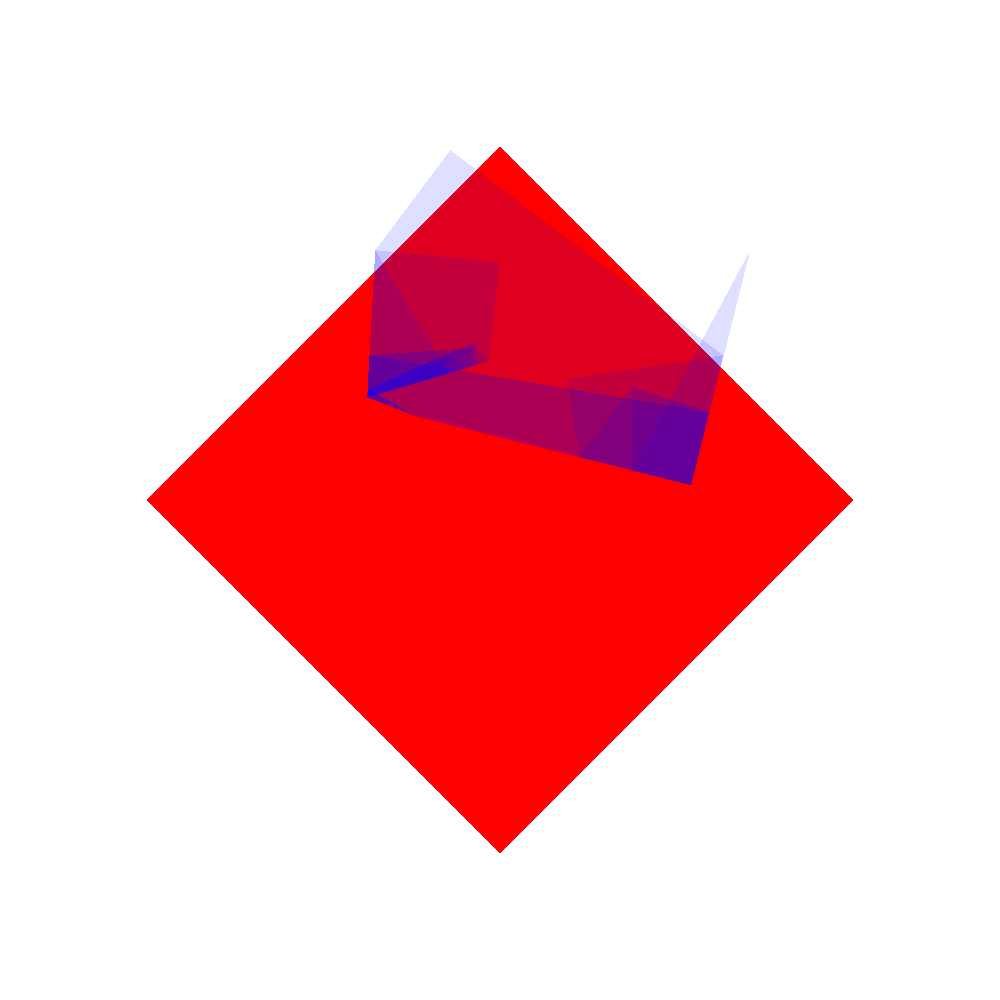
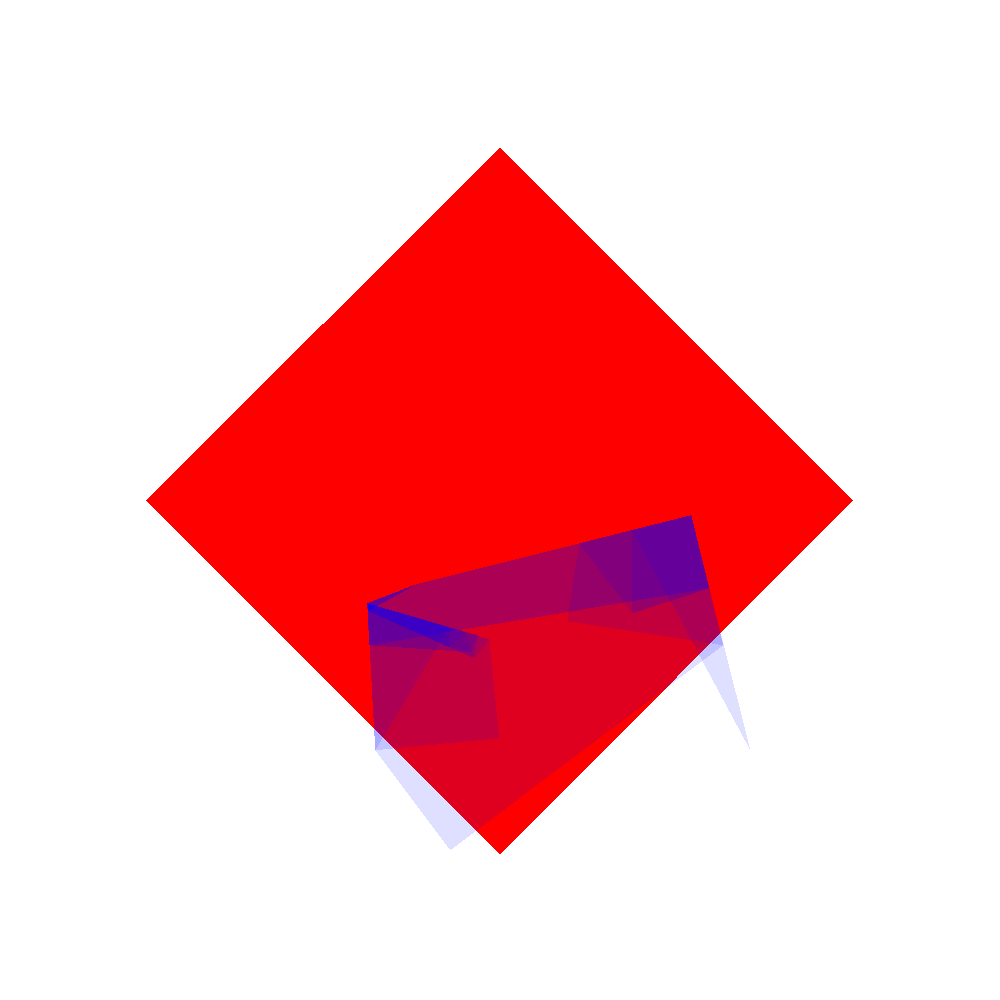
added star fold

Changed region(s): [[0.341, 0.155, 0.744, 0.868]]

diff --git a/src/test/kotlin/icfp16/folder/PoliginSplitterKtTest.kt b/src/test/kotlin/icfp16/folder/PoliginSplitterKtTest.kt
@@ -51,4 +51,62 @@ class PoliginSplitterKtTest {
     Visualizer().visualizedAndSaveImage(problem, translationSolve, filePath = "./translator_FOLD.png")
   }
 
+  @Test
+  @Ignore
+  fun starFoldingSolution() {
+
+    val problemString =
+        ProblemContainersParser().generateProblemContainerForProblemId("7")!!.problem.rawString
+
+    val problem = parseProblem(problemString)
+
+    val translationSolve = ComplexState()
+        .foldStar(Edge(
+            Vertex(Fraction(0), Fraction(1, 2)),
+            Vertex(Fraction(1), Fraction(1, 2))
+        ), Fraction(1,2), Fraction(1,2), Vertex(4,4))
+
+
+
+    Visualizer().visualizedAndSaveImage(problem, translationSolve, filePath = "./translator_FOLD_Star.png")
+  }
+
+  @Test
+
+  fun debugExTest(){
+
+    val step1 = ComplexState()
+        .fold(Edge(
+            Vertex(Fraction(1,2), Fraction(1, 1)),
+            Vertex(Fraction(1,2), Fraction(0, 1))
+        ))
+     val step2 = step1.fold(Edge(
+            Vertex(Fraction(1,4), Fraction(1, 1)),
+            Vertex(Fraction(1,4), Fraction(0, 1))
+        ))
+      val step3 = step2.fold(Edge(
+            Vertex(Fraction(1,8), Fraction(1, 1)),
+            Vertex(Fraction(1,8), Fraction(0, 1))
+        ))
+
+     val step4 = step3.fold(Edge(
+            Vertex(Fraction(1,8), Fraction(2, 8)),
+            Vertex(Fraction(0,8), Fraction(1, 8))
+        ))
+
+    val step5 = step4.fold(Edge(
+            Vertex(Fraction(0,8), Fraction(4, 8)),
+            Vertex(Fraction(1,8), Fraction(3, 8))
+        ))
+    val step6 = step5.fold(Edge(
+            Vertex(Fraction(0,8), Fraction(5, 8)),
+            Vertex(Fraction(1,8), Fraction(6, 8))
+        ))
+     val step7 = step6.fold(Edge(
+            Vertex(Fraction(0, 8), Fraction(1, 8)),
+            Vertex(Fraction(1,8), Fraction(0, 8))
+        ))
+    assert(true ==true)
+  }
+
 }

diff --git a/src/main/kotlin/icfp16/folder/PoliginSplitter.kt b/src/main/kotlin/icfp16/folder/PoliginSplitter.kt
@@ -226,20 +226,24 @@ fun ComplexPolygon.foldSimple(foldingEdge: Edge): List<ComplexPolygon> {
 
 fun ComplexPolygon.foldStar(foldingEdge: Edge, ratioX: Fraction, ratioY : Fraction, externalVertex: Vertex): List<ComplexPolygon> {
   val firstFold = this.foldSimple(foldingEdge)
-  val reflectedSplitPoint = externalVertex.reflect(foldingEdge)
-  val secondFoldingEdge = Edge(externalVertex, reflectedSplitPoint)
+  val crossPoint = foldingEdge.findSplitPoint(ratioX, ratioY)
+
+  val secondFoldingEdge1 = Edge(externalVertex, crossPoint)
+  val secondFoldingEdge2 = Edge(externalVertex.reflect(foldingEdge), crossPoint)
   val res : MutableList<ComplexPolygon> = arrayListOf()
+
   firstFold.forEach {
-    val secondFold = it.foldSimple(secondFoldingEdge)
-    res.addAll(secondFold)
+    val secondFold1 = it.foldSimple(secondFoldingEdge1)
+    if(secondFold1.count() >1) {
+      res.addAll(secondFold1)
+    }
+    val secondFold2 = it.foldSimple(secondFoldingEdge2)
+    if(secondFold2.count() >1) {
+      res.addAll(secondFold2)
+    }
   }
   return res
 }
 
-
-
-fun Polygon.foldSimple(foldingEdge: Edge): List<Polygon> {
-  return arrayListOf(this)
-}
 
 

diff --git a/src/main/kotlin/icfp16/state/ComplexState.kt b/src/main/kotlin/icfp16/state/ComplexState.kt
@@ -2,6 +2,7 @@ package icfp16.state
 
 import icfp16.data.*
 import icfp16.folder.foldSimple
+import icfp16.folder.foldStar
 import icfp16.folder.splitSimple
 
 data class ComplexState(val polys: Array<ComplexPolygon> = arrayOf(ComplexPolygon())) : IState {
@@ -79,6 +80,13 @@ data class ComplexState(val polys: Array<ComplexPolygon> = arrayOf(ComplexPolygo
       poly.foldSimple(foldingEdge)
     }.toTypedArray())
     .appendName("Folded over $foldingEdge")
+  }
+
+  override fun foldStar(foldingEdge: Edge, ratioX: Fraction, ratioY : Fraction, externalVertex: Vertex): IState{
+    return ComplexState(polys.flatMap { poly ->
+      poly.foldStar(foldingEdge, ratioX, ratioY, externalVertex)
+    }.toTypedArray())
+        .appendName("Star folded over $foldingEdge, fraction $ratioX, $ratioY, externalVertes : $externalVertex")
   }
 
   /**

diff --git a/src/test/kotlin/icfp16/folder/PoliginSplitterTest.kt b/src/test/kotlin/icfp16/folder/PoliginSplitterTest.kt
@@ -108,19 +108,18 @@ class PoliginSplitterTest {
   fun polygoSimpleFoldWithoutCross() {
 
     val edge = Edge(Vertex(0, 2), Vertex(1, 3))
-    val res = poly.foldSimple(edge)
+    val res = poly.splitSimple(edge)
     assertThat(res.count() == 1)
 
-    assert(res[0].vertices.count() == 4)
-    assert(res[0].edges().count() == 4)
+    assert(res[0].splitted == false)
+
   }
 
   @Test
-  @Ignore
   fun polygonSimpleFoldWithHorizontalCross() {
 
     val edge = Edge(Vertex(Fraction(1,2), Fraction(0)), Vertex(Fraction(1,2), Fraction(1)))
-    val res = poly.foldSimple(edge)
+    val res = poly.splitSimple(edge)
     assert(res.count() == 2)
 
   }

diff --git a/src/main/kotlin/icfp16/state/State.kt b/src/main/kotlin/icfp16/state/State.kt
@@ -95,6 +95,9 @@ data class State(val vertexes: Array<Vertex> = emptyArray(),
     throw UnsupportedOperationException("not implemented") //To change body of created functions use File | Settings | File Templates.
   }
 
+  override fun foldStar(foldingEdge: Edge, ratioX: Fraction, ratioY: Fraction, externalVertex: Vertex): IState {
+    throw UnsupportedOperationException("not implemented") //To change body of created functions use File | Settings | File Templates.
+  }
   companion object {
     fun initialSquare(): State {
       return State(vertexes = arrayOf(

diff --git a/src/main/kotlin/icfp16/state/IState.kt b/src/main/kotlin/icfp16/state/IState.kt
@@ -1,9 +1,6 @@
 package icfp16.state
 
-import icfp16.data.Edge
-import icfp16.data.Facet
-import icfp16.data.Polygon
-import icfp16.data.Vertex
+import icfp16.data.*
 
 interface IState {
 
@@ -14,6 +11,7 @@ interface IState {
   fun rotate270(around: Vertex): IState
   fun rotate(around: Vertex, pihagorean: Triple<Int,Int,Int>): IState
   fun fold(foldingEdge: Edge) : IState
+  fun foldStar(foldingEdge: Edge, ratioX: Fraction, ratioY : Fraction, externalVertex: Vertex): IState
 
   fun finalPositions(): Array<Vertex>
   fun vertexes(): Array<Vertex>
